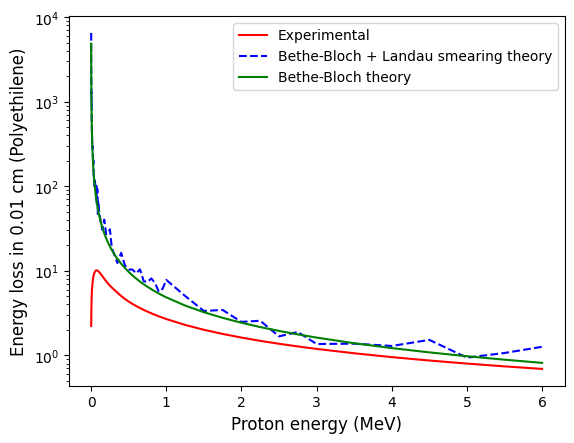
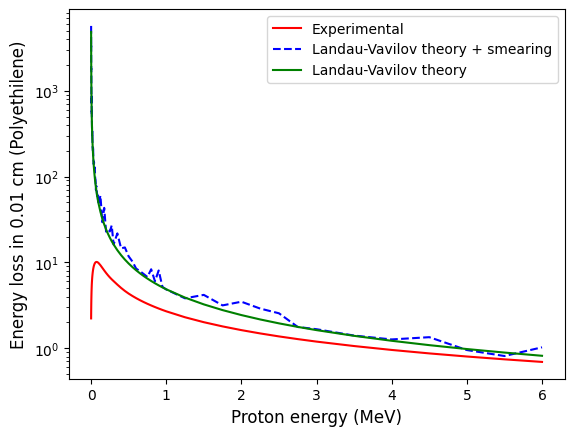
remove bb

diff --git a/check_energy_loss.py b/check_energy_loss.py
@@ -28,8 +28,8 @@ for index in range(len(energy_loss_theory)):
     energy_loss_theory_landau[index] = landau_smearing(energy_loss_theory_landau[index], fwhm_theory[index])
 
 plt.plot(energy, energy_loss_exp, "r-", label="Experimental")
-plt.plot(energy, energy_loss_theory_landau, "b--", label="Bethe-Bloch + Landau smearing theory")
-plt.plot(energy, energy_loss_theory, "g-", label="Bethe-Bloch theory")
+plt.plot(energy, energy_loss_theory_landau, "b--", label="Landau-Vavilov theory + smearing")
+plt.plot(energy, energy_loss_theory, "g-", label="Landau-Vavilov theory")
 plt.xlabel("Proton energy (MeV)", fontsize=12)
 plt.ylabel(f"Energy loss in {thick} cm (Polyethilene)", fontsize=12)
 plt.yscale("log")
